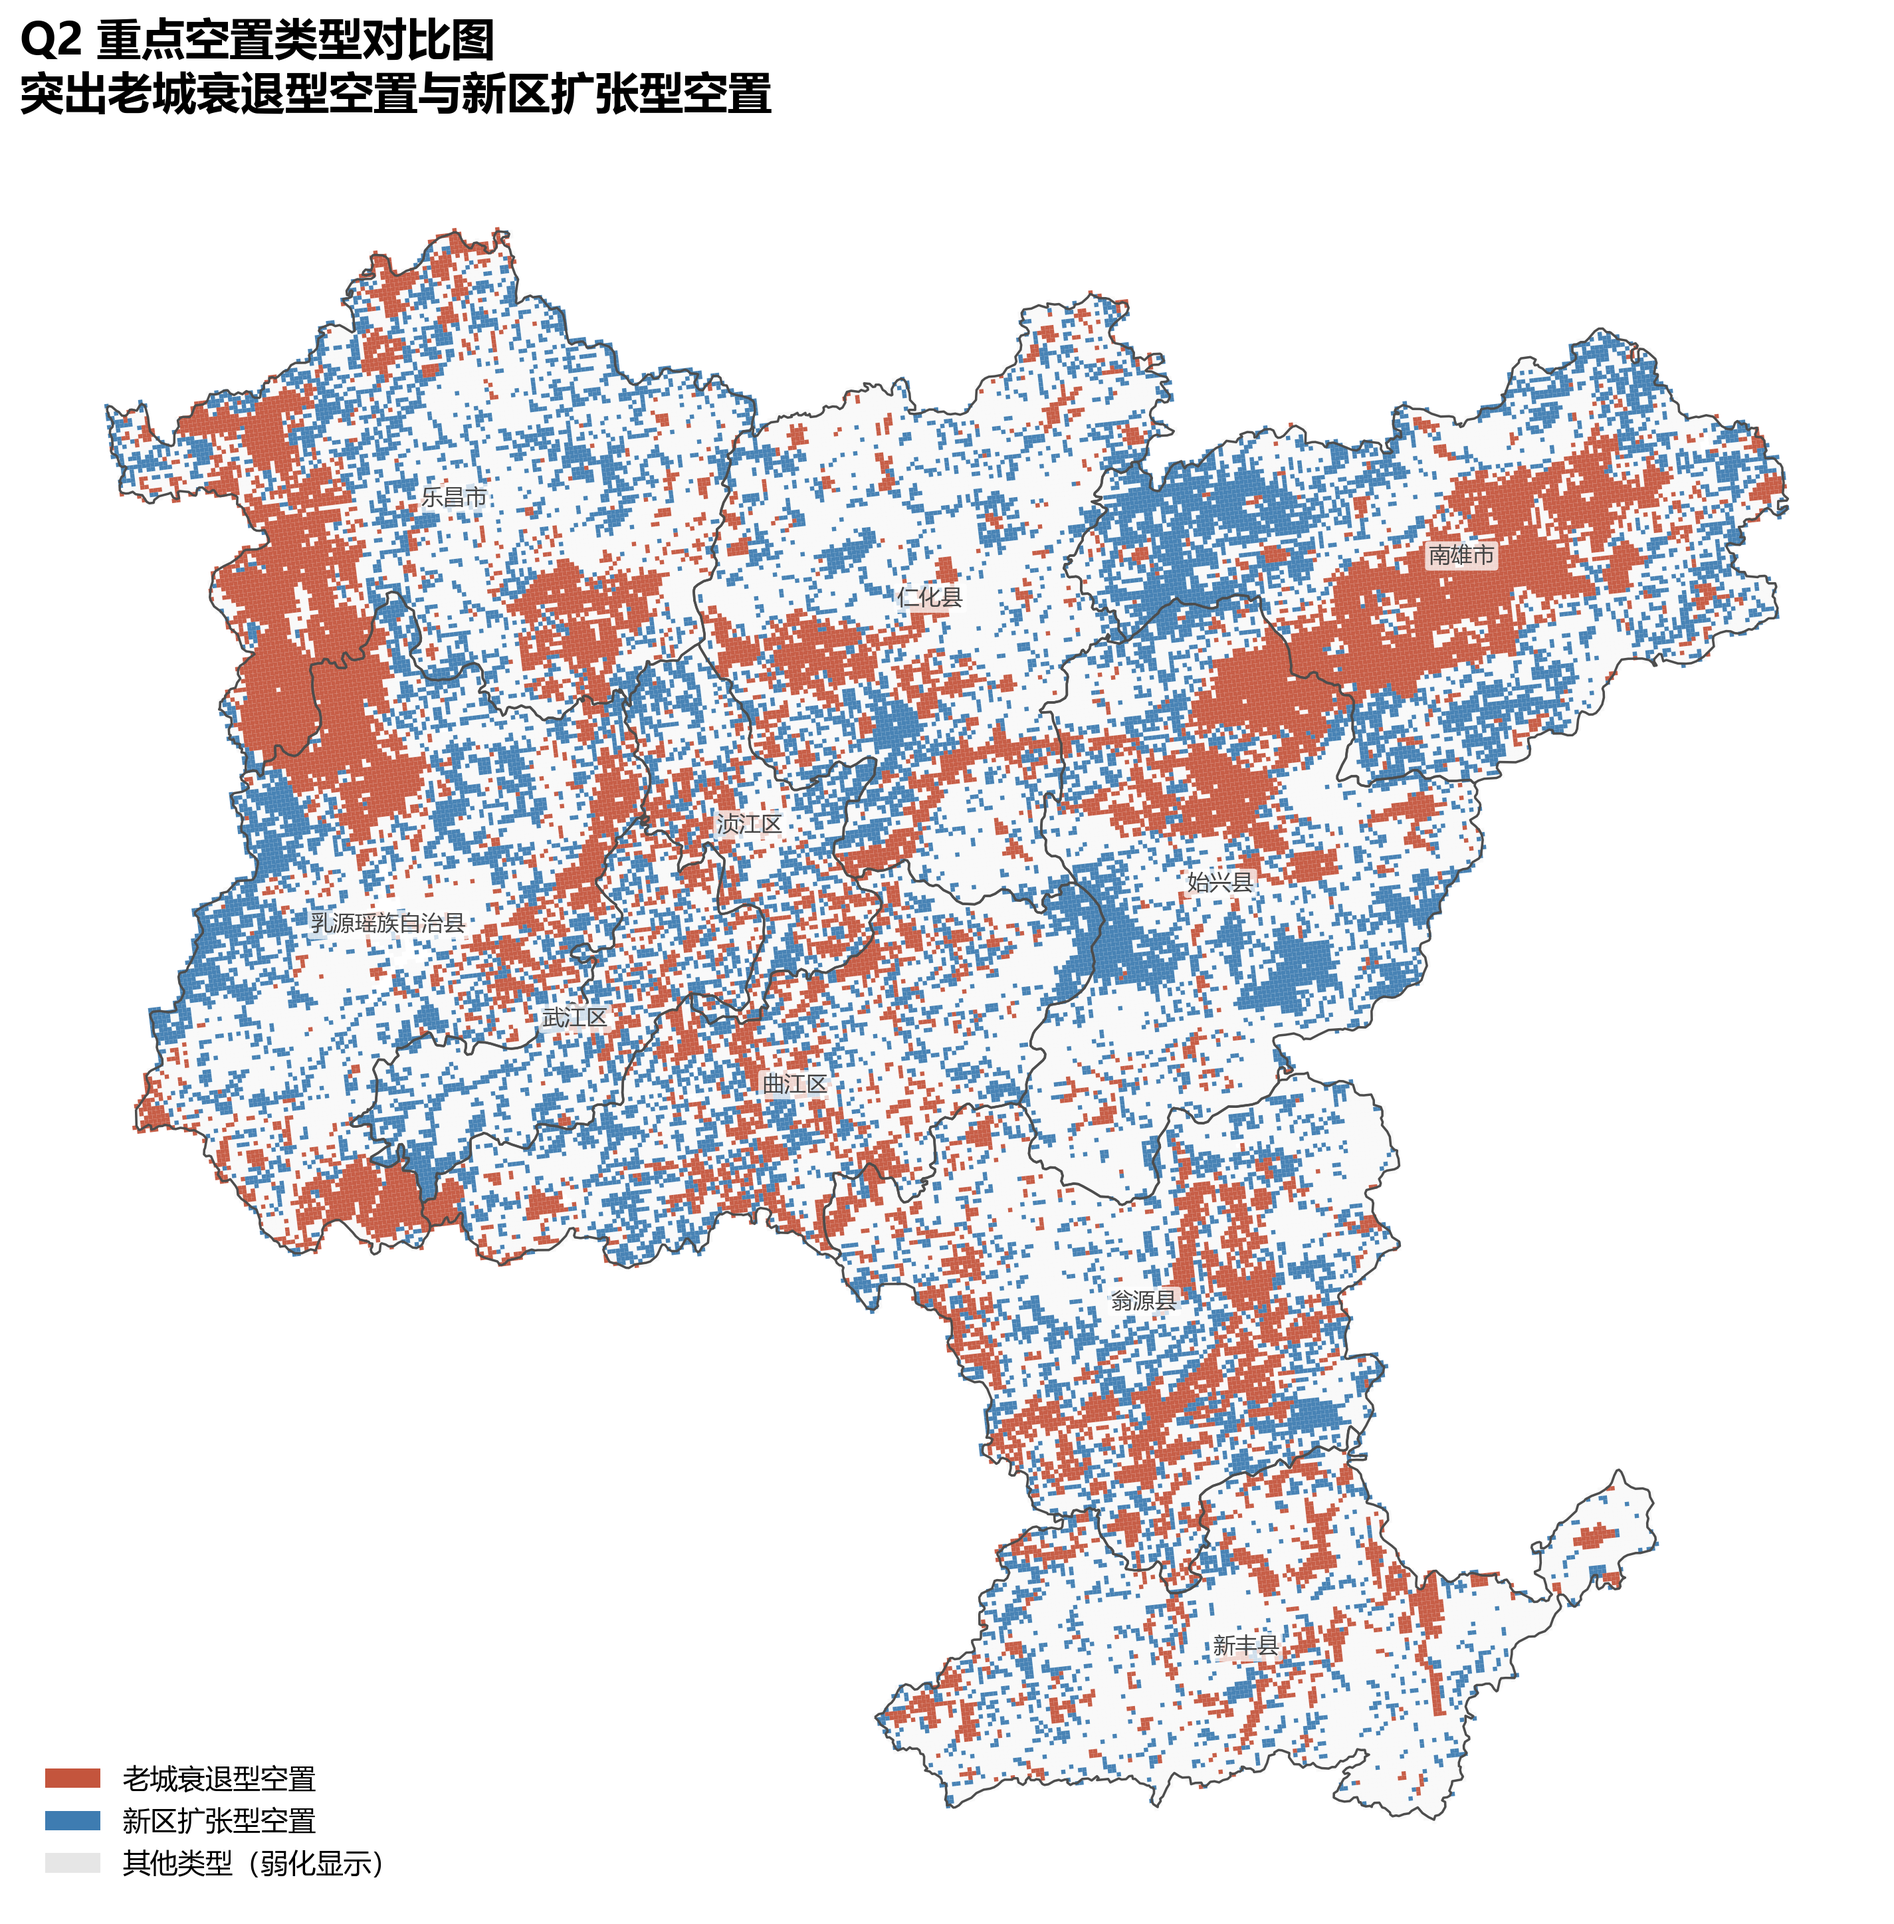
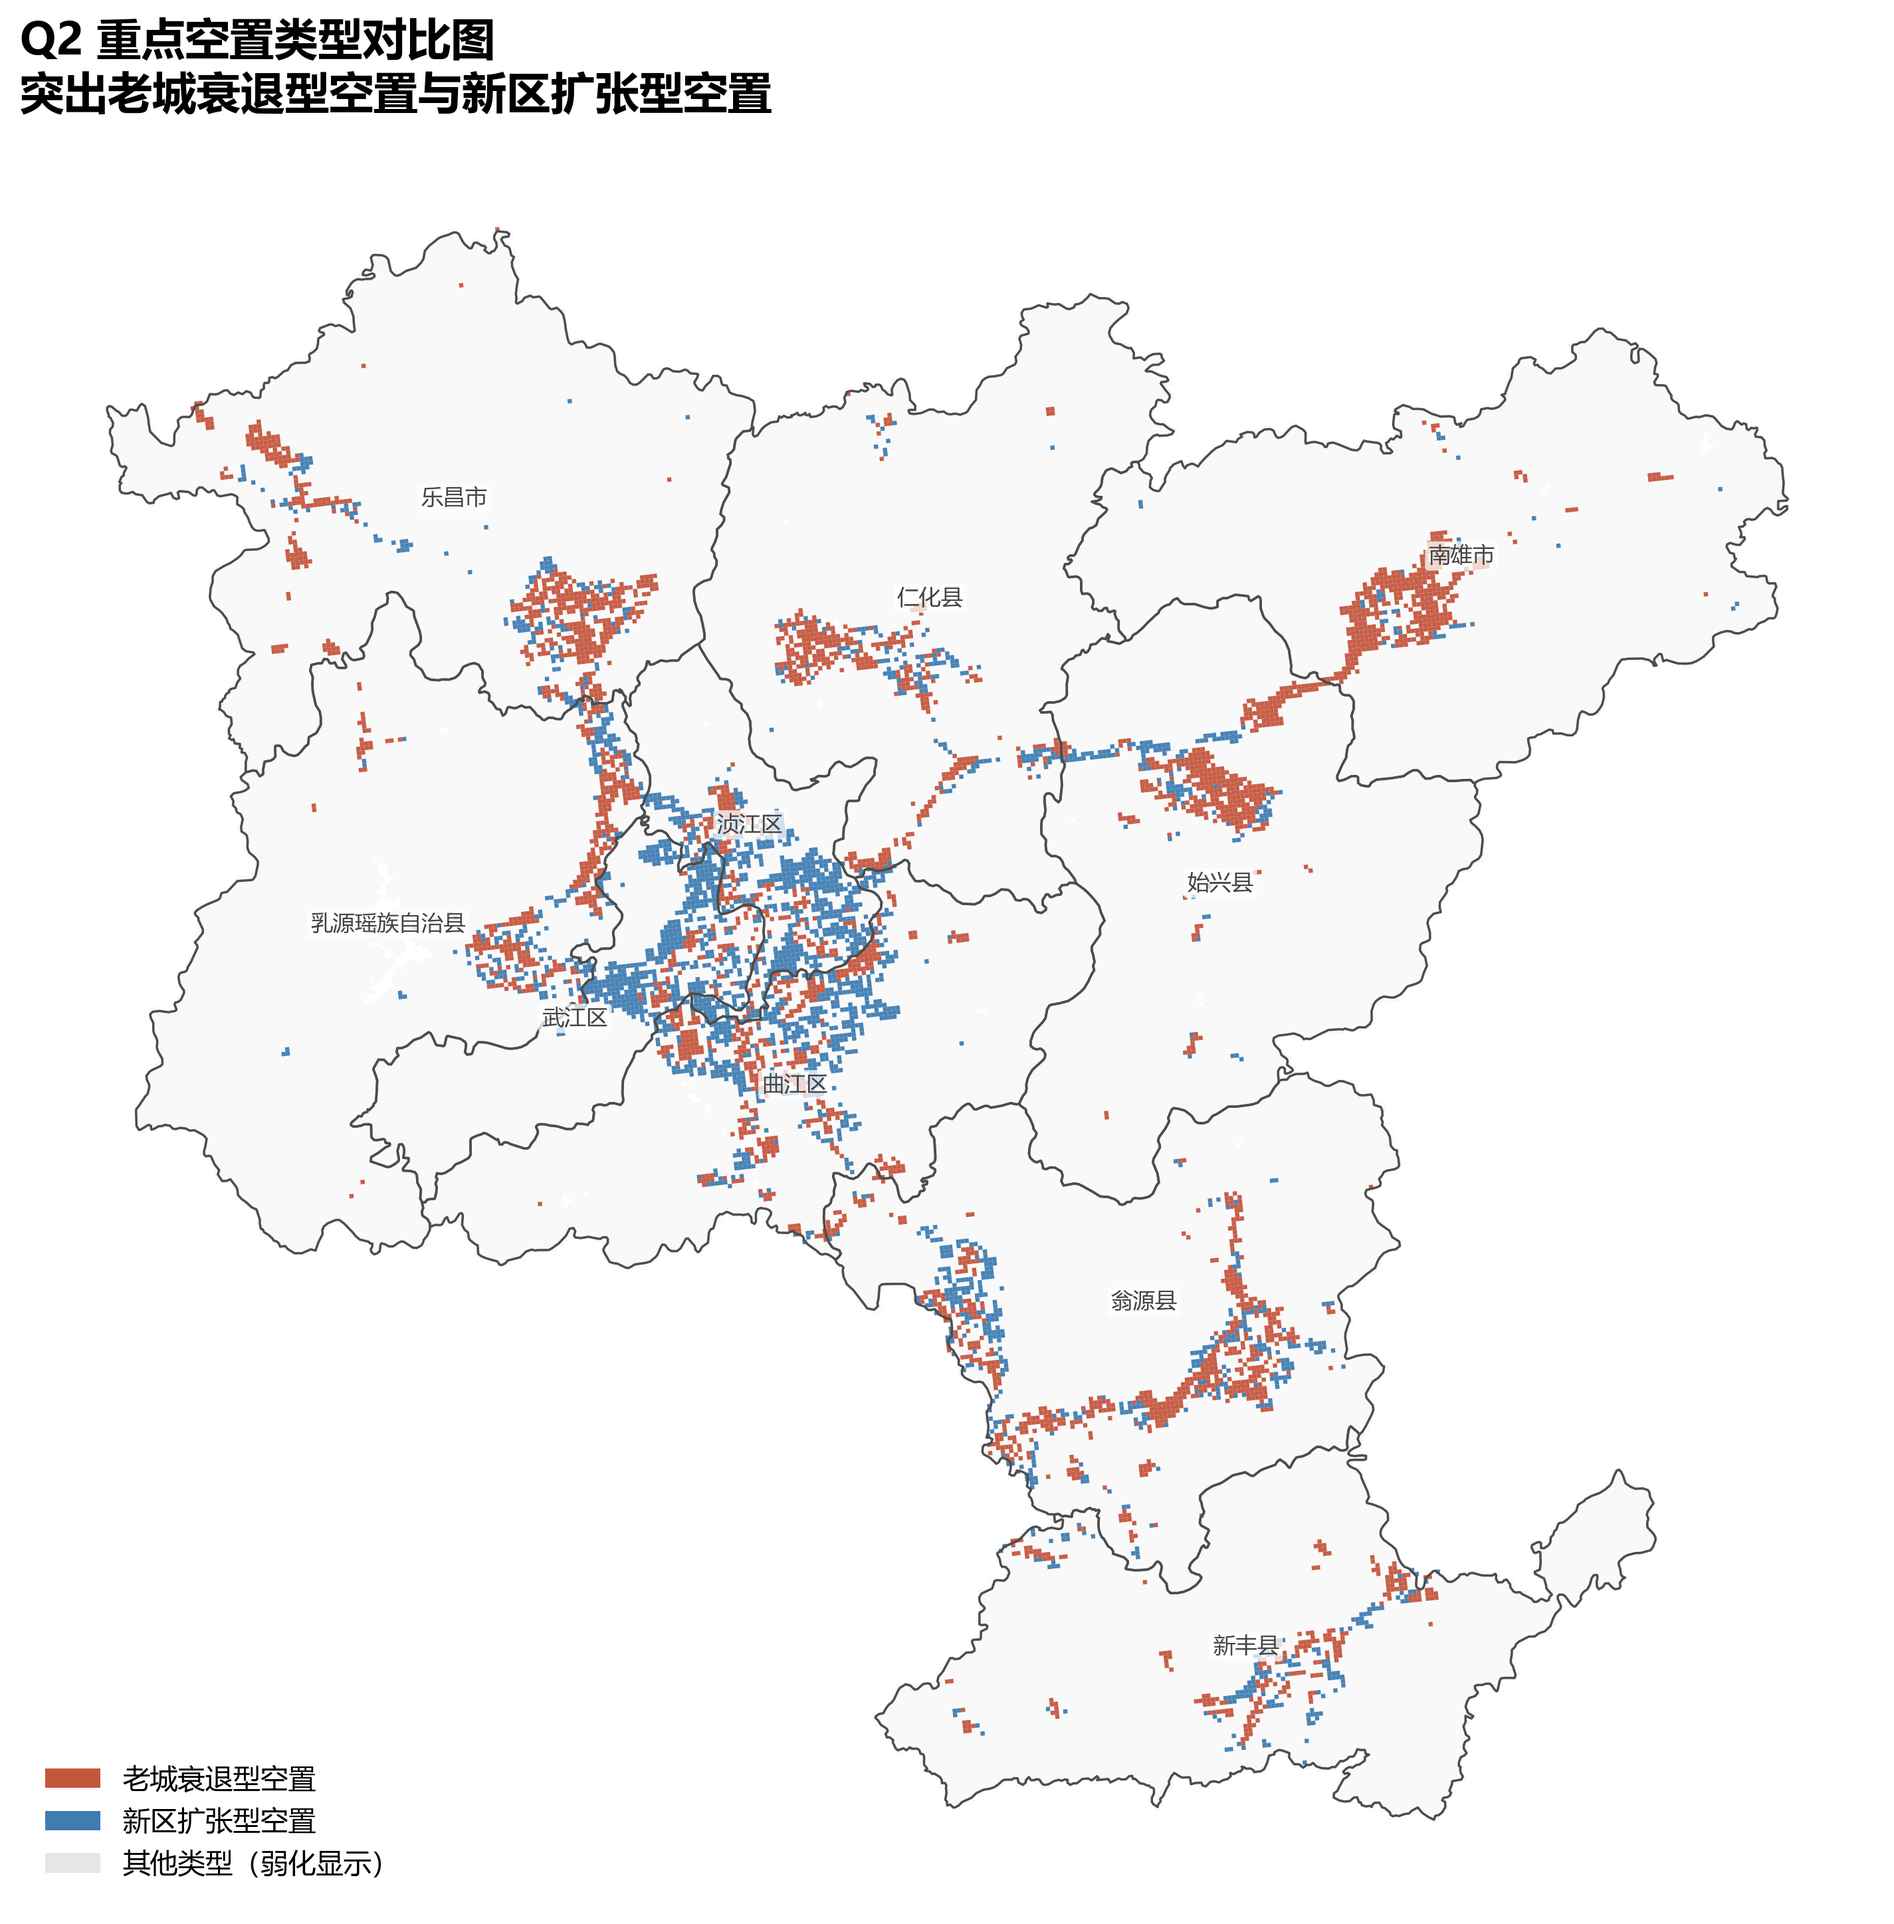
feat: 重新画Q2的图

Changed region(s): [[0.0625, 0.1244, 0.9368, 0.9326], [0.8119, 0.7772, 0.8744, 0.8394]]

diff --git a/Q2/04_screen_builtup_and_candidates.py b/Q2/04_screen_builtup_and_candidates.py
@@ -21,38 +21,38 @@ REQUIRED_COLUMNS = [
     "risk_high_freq",
 ]
 
+DEFAULT_RESIDENTIAL_MIN_NDVI = 0.10
+
 
 def parse_args() -> argparse.Namespace:
-    """解析命令行参数。"""
     q2_dir = Path(__file__).resolve().parent
     output_dir = q2_dir / "output"
 
     parser = argparse.ArgumentParser(
-        description="筛除非建成区并识别 Q2 空置风险候选格网。"
+        description="Screen built-up grids and vacancy candidates for Q2.",
     )
     parser.add_argument(
         "--input",
         type=Path,
         default=None,
-        help="输入特征表路径，留空时自动识别。",
+        help="Input feature table. Auto-detected when omitted.",
     )
     parser.add_argument(
         "--output",
         type=Path,
         default=output_dir / "Q2_CandidateTable.csv",
-        help="候选格网表输出路径。",
+        help="Output path for the screened candidate table.",
     )
     parser.add_argument(
         "--log",
         type=Path,
         default=output_dir / "logs" / "04_screen_builtup_and_candidates.json",
-        help="步骤日志输出路径。",
+        help="Output path for the step log.",
     )
     return parser.parse_args()
 
 
 def resolve_input(user_input: Path | None, output_dir: Path) -> Path:
-    """识别输入特征表。"""
     if user_input is not None:
         return user_input
 
@@ -64,21 +64,19 @@ def resolve_input(user_input: Path | None, output_dir: Path) -> Path:
         ],
     )
     if path is None:
-        raise FileNotFoundError("未找到 Q2 特征表输入文件。")
+        raise FileNotFoundError("Could not find the Q2 feature table.")
     return path
 
 
 def load_features(path: Path) -> pd.DataFrame:
-    """读取特征表并检查必要字段。"""
     frame = pd.read_csv(path)
     missing = [column for column in REQUIRED_COLUMNS if column not in frame.columns]
     if missing:
-        raise ValueError(f"输入特征表缺少必要字段: {missing}")
+        raise ValueError(f"Input feature table is missing required columns: {missing}")
     return frame
 
 
 def compute_thresholds(frame: pd.DataFrame) -> dict[str, float]:
-    """计算筛选阈值。"""
     valid = frame.copy()
     return {
         "ndbi_2023_q35": float(valid["ndbi_2023"].quantile(0.35)),
@@ -93,8 +91,9 @@ def compute_thresholds(frame: pd.DataFrame) -> dict[str, float]:
 
 
 def screen_candidates(frame: pd.DataFrame, thresholds: dict[str, float]) -> pd.DataFrame:
-    """按文档逻辑筛选建成区与空置风险候选。"""
     screened = frame.copy()
+    light_2023 = screened["light_2023"].fillna(0.0) if "light_2023" in screened.columns else pd.Series(0.0, index=screened.index)
+    poi_count = screened["poi_count"].fillna(0.0) if "poi_count" in screened.columns else pd.Series(0.0, index=screened.index)
 
     builtup_flag = (
         (
@@ -108,7 +107,16 @@ def screen_candidates(frame: pd.DataFrame, thresholds: dict[str, float]) -> pd.D
         & (screened["ndbi_2023"] < thresholds["ndbi_2023_q35"])
     )
 
-    vacancy_candidate_flag = builtup_flag & (
+    residential_flag = (
+        builtup_flag
+        & (screened["ndvi_2023"] >= DEFAULT_RESIDENTIAL_MIN_NDVI)
+        & (
+            light_2023.gt(0)
+            | poi_count.gt(0)
+        )
+    )
+
+    vacancy_candidate_flag = residential_flag & (
         (screened["risk_state_2023"] >= thresholds["risk_state_medium"])
         | (screened["rvri_2023"] >= thresholds["rvri_2023_q65"])
         | (screened["risk_high_freq"] >= max(0.4, thresholds["risk_high_freq_q65"]))
@@ -116,17 +124,21 @@ def screen_candidates(frame: pd.DataFrame, thresholds: dict[str, float]) -> pd.D
     )
 
     screened["builtup_flag"] = builtup_flag
+    screened["residential_flag"] = residential_flag
     screened["vacancy_candidate_flag"] = vacancy_candidate_flag
     screened["screen_status"] = np.where(
         ~screened["builtup_flag"],
         "non_built_filtered",
-        np.where(screened["vacancy_candidate_flag"], "vacancy_candidate", "stable_candidate"),
+        np.where(
+            ~screened["residential_flag"],
+            "non_residential_filtered",
+            np.where(screened["vacancy_candidate_flag"], "vacancy_candidate", "stable_candidate"),
+        ),
     )
     return screened
 
 
 def main() -> None:
-    """主入口。"""
     args = parse_args()
     output_dir = Path(__file__).resolve().parent / "output"
     input_path = resolve_input(args.input, output_dir)
@@ -140,22 +152,26 @@ def main() -> None:
         "output_file": str(args.output),
         "input_rows": int(len(features)),
         "builtup_rows": int(candidates["builtup_flag"].sum()),
+        "residential_rows": int(candidates["residential_flag"].sum()),
         "candidate_rows": int(candidates["vacancy_candidate_flag"].sum()),
         "stable_rows": int((candidates["screen_status"] == "stable_candidate").sum()),
+        "non_residential_rows": int((candidates["screen_status"] == "non_residential_filtered").sum()),
         "non_built_rows": int((candidates["screen_status"] == "non_built_filtered").sum()),
         "thresholds": thresholds,
         "warnings": [],
     }
     write_step_log(args.log, stats)
 
-    print("Q2 第04步完成")
-    print(f"- 输入文件: {input_path}")
-    print(f"- 输出文件: {args.output}")
-    print(f"- 总格网数: {len(features)}")
-    print(f"- 建成区格网数: {stats['builtup_rows']}")
-    print(f"- 候选格网数: {stats['candidate_rows']}")
-    print(f"- 稳定对照格网数: {stats['stable_rows']}")
-    print(f"- 非建成过滤格网数: {stats['non_built_rows']}")
+    print("Q2 step 4 completed.")
+    print(f"- Input file: {input_path}")
+    print(f"- Output file: {args.output}")
+    print(f"- Total rows: {len(features)}")
+    print(f"- Built-up rows: {stats['builtup_rows']}")
+    print(f"- Residential built-up rows: {stats['residential_rows']}")
+    print(f"- Vacancy candidate rows: {stats['candidate_rows']}")
+    print(f"- Stable residential control rows: {stats['stable_rows']}")
+    print(f"- Built-up but non-residential rows: {stats['non_residential_rows']}")
+    print(f"- Non-built filtered rows: {stats['non_built_rows']}")
 
 
 if __name__ == "__main__":
